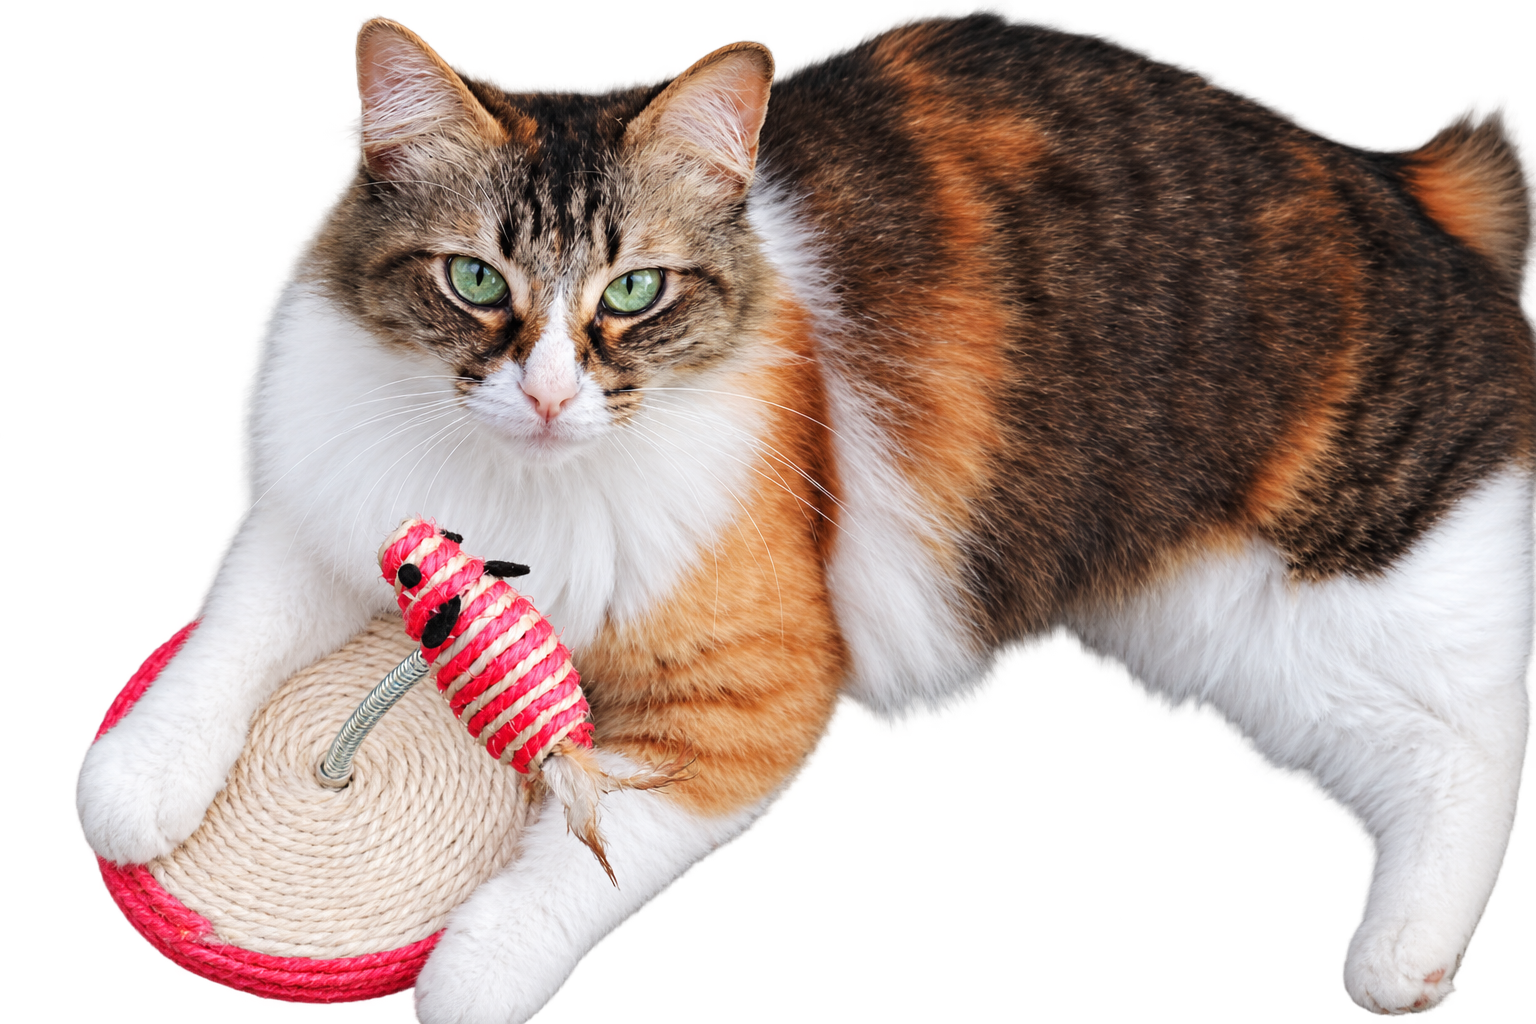
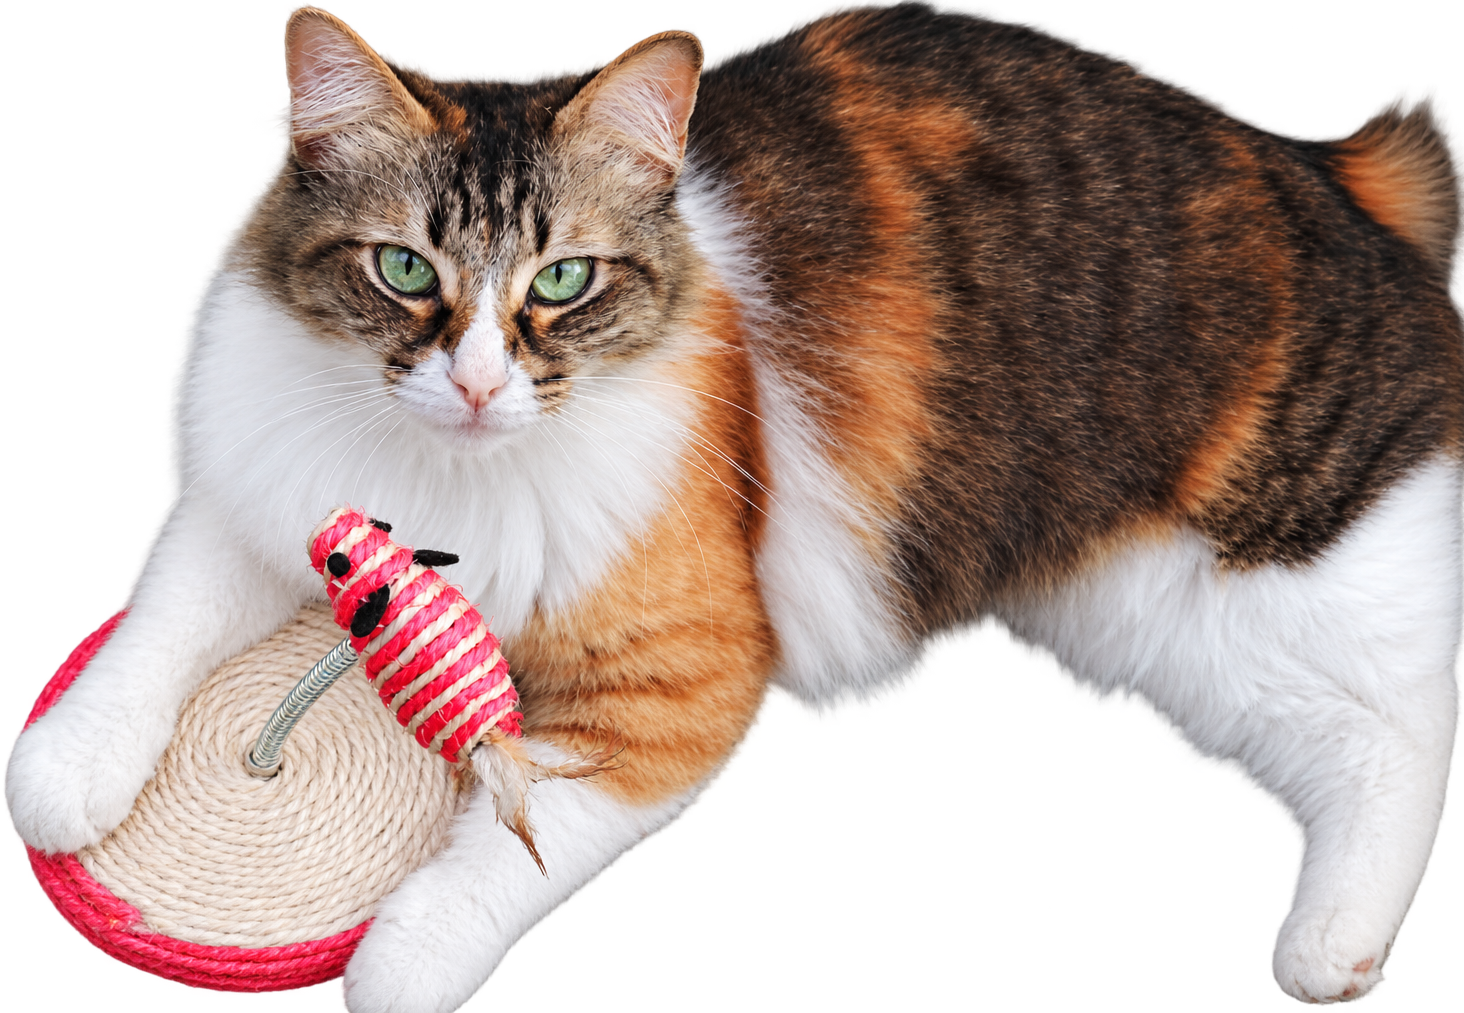
image updates

diff --git a/src/assets/css/main.css b/src/assets/css/main.css
@@ -935,8 +935,9 @@
   display: block;
   width: 100%;
   height: 100%;
-  object-fit: contain;
+  object-fit: cover;
   object-position: center;
+  transform: scale(0.98);
 }
 .hero-grid__category-title {
   font-family: "Fredoka", -apple-system, BlinkMacSystemFont, "Segoe UI", Roboto, Oxygen, Ubuntu, Cantarell, sans-serif;

diff --git a/src/assets/scss/_hero.scss b/src/assets/scss/_hero.scss
@@ -409,8 +409,9 @@
       display: block;
       width: 100%;
       height: 100%;
-      object-fit: contain;
+      object-fit: cover;
       object-position: center;
+      transform: scale(.98);
     }
   }
 
